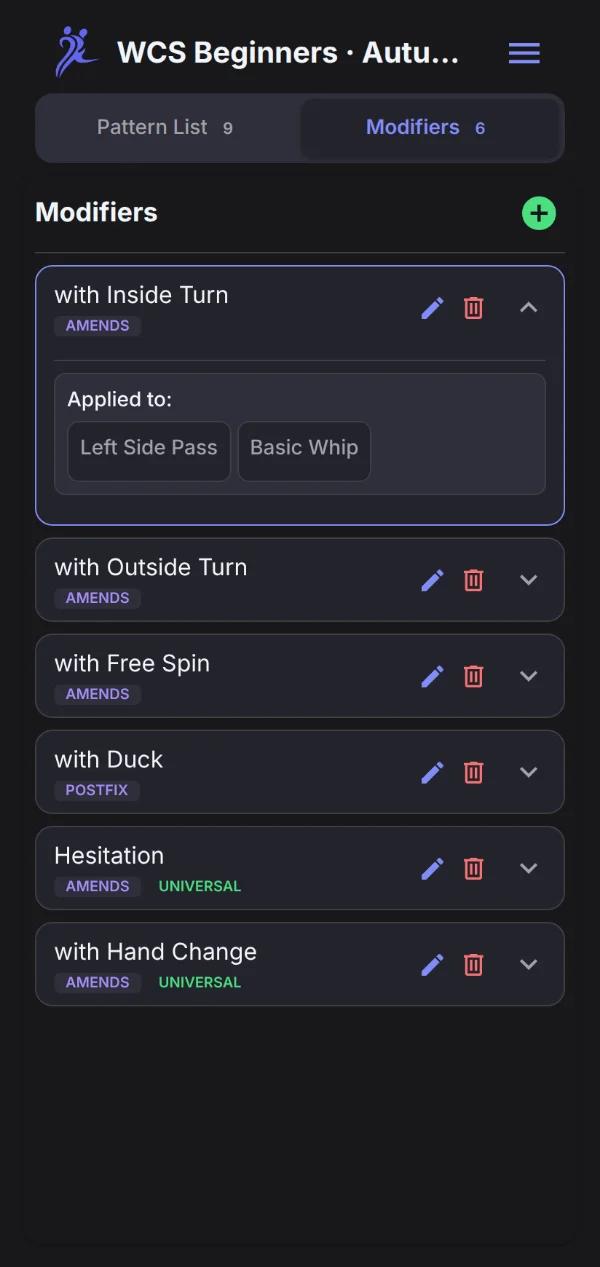
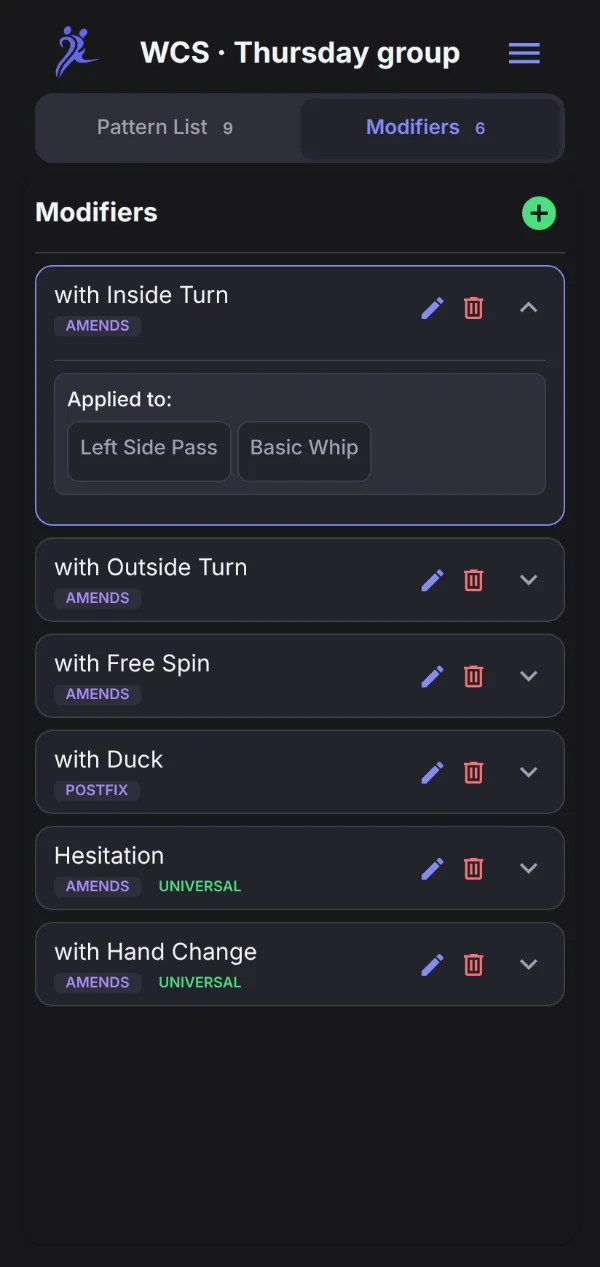
Tag the screenshot list by course and festival, not by week
A weekly course teaches about one figure per session, so a week tag
holds a single figure. The demo list is now one group's list growing
over courses, tagged per course, plus a festival tag; the filter
example and texts follow.

Claude-Session: https://claude.ai/code/session_017MjUedyUaDx1vcBwZbNwXJ

Changed region(s): [[0.18, 0.0308, 0.78, 0.0616]]

diff --git a/website/index.html b/website/index.html
@@ -6,7 +6,7 @@
     <title>DPM · Dance Pattern Mapper</title>
     <meta
       name="description"
-      content="DPM keeps the figures from your dance course, with your own videos, in one place and maps how they connect. For dancers who want to remember what they learned, and for teachers who want to give every course its own list."
+      content="DPM keeps the figures from your dance course, with your own videos, in one place and maps how they connect. For dancers who want to remember what they learned, and for teachers who want to give their groups a list that grows from course to course."
     />
     <meta name="theme-color" content="#f5f3ff" media="(prefers-color-scheme: light)" />
     <meta name="theme-color" content="#18181b" media="(prefers-color-scheme: dark)" />
@@ -120,8 +120,9 @@
             <div class="audience">
               <h3>For dance teachers</h3>
               <p>
-                Give every course its own list and add each figure as you teach it. Your students
-                subscribe with a code, and their copy grows with the course.
+                Keep one list per group and add each figure as you teach it, with a tag for each
+                course. Your students subscribe with a code, and their copy keeps growing as the
+                group moves on from one course to the next.
               </p>
               <p>
                 Your course material, digital and always at hand, without building a website or
@@ -147,7 +148,7 @@
           </div>
           <ol class="steps">
             <li>
-              <h3>Start a list for your course</h3>
+              <h3>Start a list for your dance</h3>
               <p>
                 Pick a template for West Coast Swing, Salsa, Bachata, Argentine Tango or Lindy Hop,
                 or start from a blank list for any other partner dance.
@@ -156,8 +157,8 @@
             <li>
               <h3>Add each figure as it comes</h3>
               <p>
-                Name, type, counts, level, notes, your videos from class, tags such as the course
-                week, and the figures it builds on.
+                Name, type, counts, level, notes, your videos from class, tags such as the course or
+                festival, and the figures it builds on.
               </p>
             </li>
             <li>
@@ -212,8 +213,9 @@
                 connected to it, in view. The matches stay bright and the rest fades back.
               </p>
               <p>
-                Tag each figure with its course week, filter for week 2, and you see that week's
-                new figures together with the ones they build on.
+                Back from a festival weekend with more figures than you can remember? Tag them, filter
+                for the tag in the weeks after, and you see each new figure together with the ones it
+                builds on.
               </p>
               <p class="muted">
                 The same filter works on the list, alongside sorting by name, type, level, counts or
@@ -228,7 +230,7 @@
                   width="600"
                   height="1267"
                   loading="lazy"
-                  alt="The network filtered to the week 2 tag: the underarm turn and the sugar tuck stand out, with the sugar push it builds on faded behind them"
+                  alt="The timeline filtered to a festival tag: the behind-the-back and hustle whips stand out, with the basic whip they build on faded behind them"
                 />
               </picture>
             </div>
@@ -385,7 +387,7 @@
               <div class="icon">
                 <svg viewBox="0 0 24 24" fill="none" stroke="currentColor" stroke-width="2" stroke-linecap="round" aria-hidden="true"><path d="M4 6h16M4 12h16M4 18h10" /></svg>
               </div>
-              <h3>One list per course</h3>
+              <h3>One list per group or dance</h3>
               <p>
                 Each list has its own pattern types, colours and modifiers. The five dance templates
                 come with starter patterns.
@@ -457,10 +459,10 @@
           <details>
             <summary>I teach a course. How do I set it up?</summary>
             <p>
-              Create a list for the course, add each figure as you teach it, and tag it with the
-              week if you like. Publish the list and show the code or QR code in class. Your
-              students' copies follow every change you make, so next week's figure appears on their
-              phones as soon as you add it.
+              Create a list for the group, add each figure as you teach it, and tag it with the
+              course. Publish the list and show the code or QR code in class. Your students' copies
+              follow every change you make, so the next figure appears on their phones as soon as
+              you add it, and the list carries on when the group moves up to the next course.
             </p>
           </details>
           <details>

diff --git a/website/README.md b/website/README.md
@@ -42,7 +42,7 @@ These addresses are hard-coded and must change together when the site gets its o
 - **Store badges.** When the listings go live, replace the "In active development" line in the
   hero with the official Google Play and App Store badges.
 - **Screenshots.** The screenshots come from the app's web build at phone size (412 × 870), with a
-  West Coast Swing course list ("WCS Beginners · Autumn 2026", tagged by course week) seeded into
+  West Coast Swing group list ("WCS · Thursday group", tagged by course and festival) seeded into
   storage. Sharing and the video tools can't be shot there (no Firebase, Android-only), so those two
   are still drawn; replace them with device screenshots when a phone is at hand.
 - **Privacy policy.** Keep `PRIVACY_POLICY.md` in step with the app: a new network connection,
